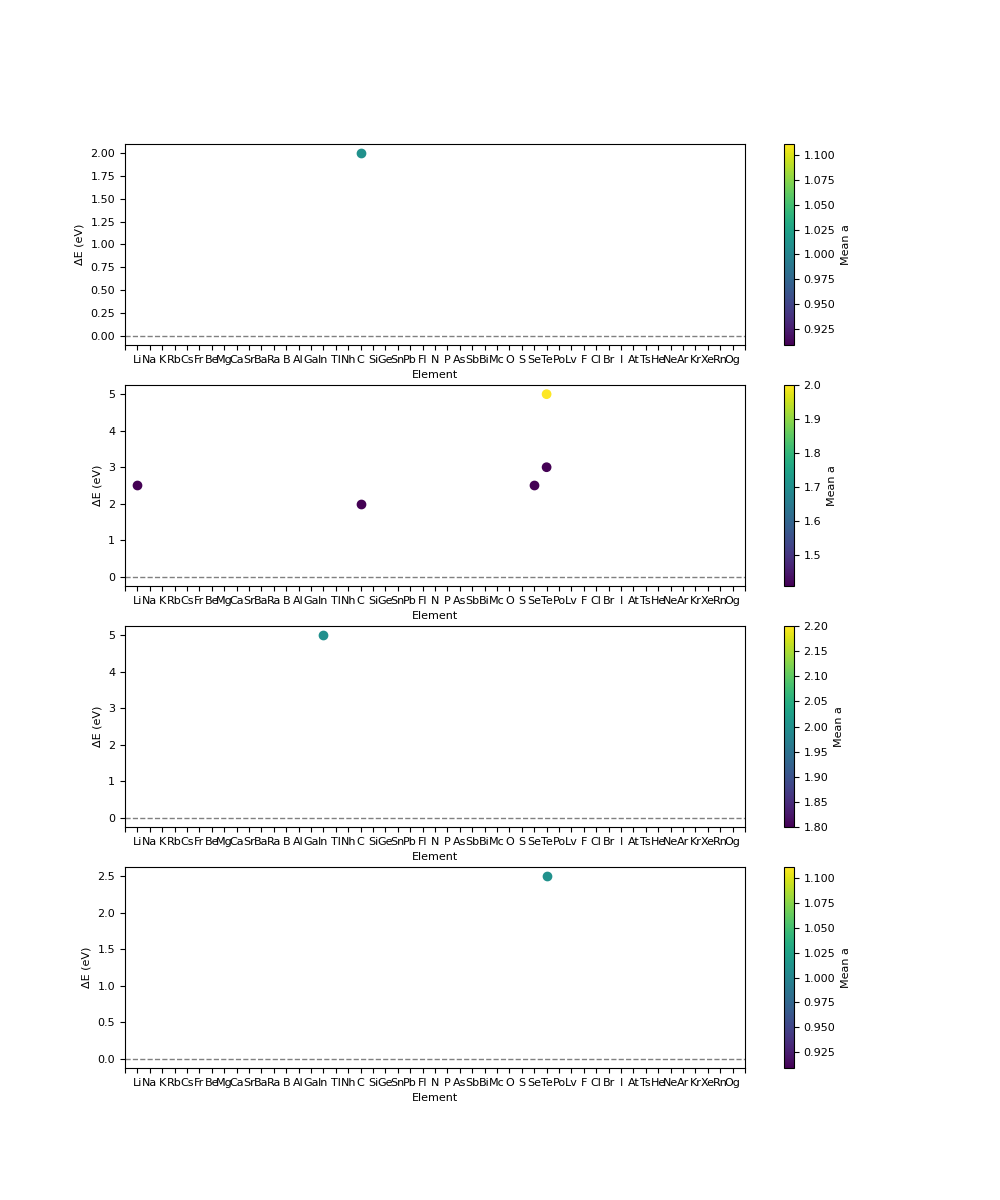
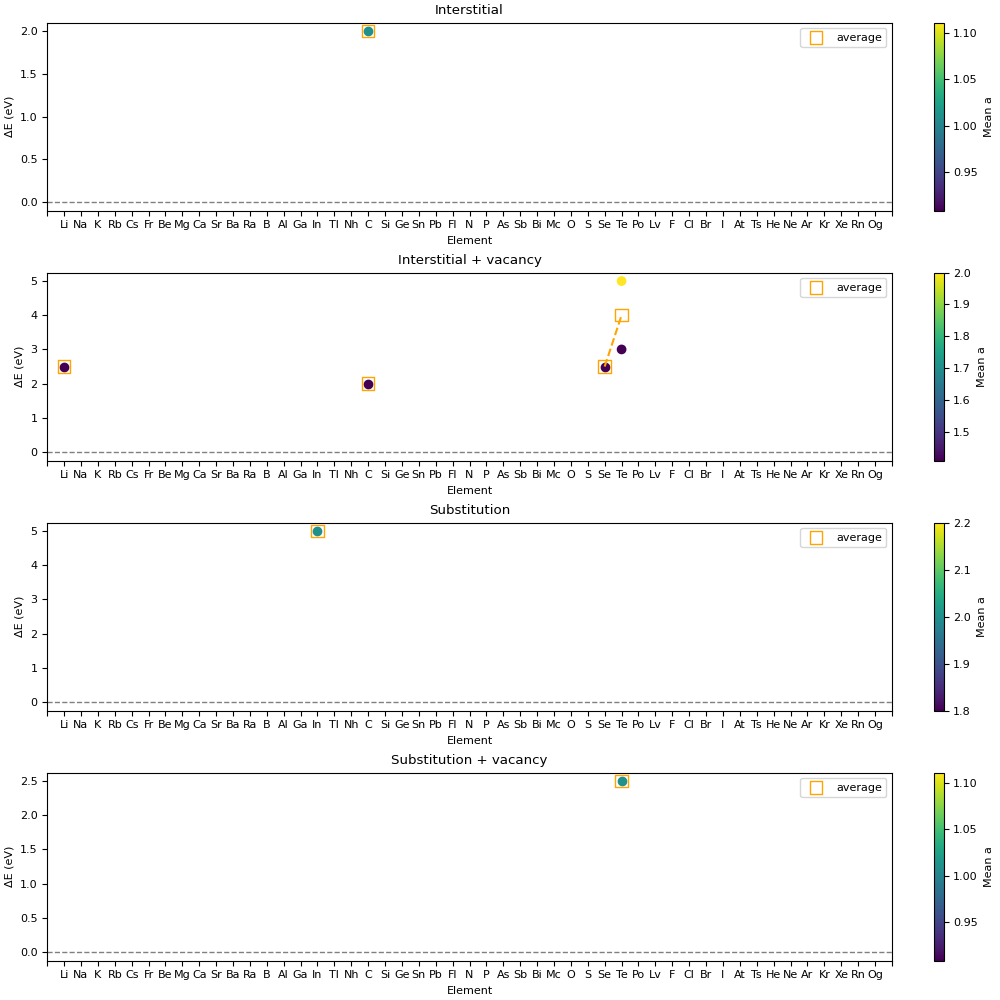
Added loggin, fixed test

diff --git a/src/mdse/visualizeDB/vis_plots.py b/src/mdse/visualizeDB/vis_plots.py
@@ -11,8 +11,12 @@ import seaborn as sns
 logger = logging.getLogger(__name__)
 
 def get_label_name(property):
-    """For a property, like "MSD", get the correct label we can use in plot axis.
-    
+    """For a property, like "MSD", get the correct label we can use in scatter plot.
+
+    args:
+        propery(str): The property, in config format.
+    returns:
+        (str): The property in nice label format.
     """
     labels = {"MSD": "Means square displacement", "temperature": "Temperapure (K)", "Lindeman":"Lindeman",
               "self_diff":"Self diffusion", "energy": "Energy"}
@@ -25,8 +29,8 @@ def get_label_name(property):
     return prop_label
 
 def get_defect_cat(defect_name):
-    """Takes defect name, like "Int_Na" or "Na_C" and extracts what type
-    of defect it is, and what element.
+    """Takes defect name, like "Int_Na" or "Na_C" and extracts what type(s)
+    of defect it is, and what element(s)
     
     args:
         defect_name(str): The defect name
@@ -49,8 +53,14 @@ def single_defect_plot(plot_name, plot_data, sim_data):
     Plots 4 subplots, one for each defect.
     Each subplot should contain all the elements.
     Will get multiple points per element, because of starting positioning differs.
-    4 plots because inter and sub, then these 2 but with vacancy added
+    4 plots because inter and sub, then these 2 but with vacancy added.
+
+    args:
+        plot_name(str): Name of the plot
+        plot_data(dic): Data about the plot. What axis etc.
+        sim_data(dic): Where the data we plot is.
     """
+    logger.debug(f"Start to make single_defect_plot for {plot_name}")
     s_elements = ["Li","Na","K","Rb","Cs","Fr",
                 "Be","Mg","Ca","Sr","Ba","Ra"]
 
@@ -64,7 +74,7 @@ def single_defect_plot(plot_name, plot_data, sim_data):
 
     sorted_data = {"interstitial" : {"element" : [], "energy" : [], "vacancy" : [], "avg_a": []},
      "substitution" : {"element" : [], "energy" : [], "vacancy" : [], "avg_a" : []}}
-
+    logger.debug("Start to loop trough simulations")
     for sim in sim_data:
         #Pick out single defect
         amount = sim.get("DefectInfo")["defect_size"]
@@ -103,15 +113,18 @@ def single_defect_plot(plot_name, plot_data, sim_data):
             defect["avg_a"].append(sim.get("avg_a"))
             defect["vacancy"].append(False)
             continue
+    
+    logger.debug("Done looping over simulations.")
 
-    fig, axs = plt.subplots(nrows = 4, figsize = (10,12), sharex = False)
+    fig, axs = plt.subplots(nrows = 4, figsize = (10,10), sharex = False, constrained_layout = True)
+    #fig.tight_layout()
 
     #Fix axis of all subplots.
 
     avg = plot_data.get("average")
     fix_y = plot_data.get("fix_y")
 
-
+    logger.debug("Fix axis for the 4 subplots")
     for axel in axs:
         axel.set_xlim(0,19)
         axel.set_xlabel("Element")
@@ -134,10 +147,11 @@ def single_defect_plot(plot_name, plot_data, sim_data):
     all_elements = s_elements+p_elements
 
     #----------------Single, interstitial
-    logger.debug("")
+    logger.debug("Start generating first subplot")
     ax1 = axs[0]
     x_pos = range(0,51)
     ax1.set_xticks(x_pos,all_elements)
+    ax1.set_title("Interstitial")
 
     sc1 = None
     first_label = True
@@ -177,13 +191,14 @@ def single_defect_plot(plot_name, plot_data, sim_data):
         fig.colorbar(sc1,ax=ax1, label = "Mean a")
     if avg and avg_x:
         ax1.plot(avg_x,avg_y, linestyle = "--", color="orange")
-    logger.debug("")
+    logger.debug("Done generarating first subplot")
 
     #----------------Interstitial + vacancy
-    logger.debug("")
+    logger.debug("Generate second subplot")
     ax2 = axs[1]
     x_pos = range(0,51)
     ax2.set_xticks(x_pos,all_elements)
+    ax2.set_title("Interstitial + vacancy")
 
     sc2 = None
     first_label = True
@@ -223,13 +238,14 @@ def single_defect_plot(plot_name, plot_data, sim_data):
         fig.colorbar(sc2,ax=ax2, label = "Mean a")
     if avg and avg_x:
         ax2.plot(avg_x,avg_y, linestyle = "--", color="orange")
-    logger.debug("")
+    logger.debug("Done generating second subplot")
 
     #----------------Substitution
-    logger.debug("")
+    logger.debug("Start generating third subplot")
     ax3 = axs[2]
     x_pos = range(0,51)
     ax3.set_xticks(x_pos,all_elements)
+    ax3.set_title("Substitution")
 
     sc3 = None
     first_label = True
@@ -269,13 +285,14 @@ def single_defect_plot(plot_name, plot_data, sim_data):
         fig.colorbar(sc3,ax=ax3, label = "Mean a")
     if avg and avg_x:
         ax3.plot(avg_x,avg_y, linestyle = "--", color="orange")
-    logger.debug("")
+    logger.debug("Done generating third subplot")
 
     #----------------Substitution + vacancy
-    logger.debug("")
+    logger.debug("Start generating forth subplot")
     ax4 = axs[3]
     x_pos = range(0,51)
     ax4.set_xticks(x_pos,all_elements)
+    ax4.set_title("Substitution + vacancy")
 
     sc4 = None
     first_label = True
@@ -315,7 +332,7 @@ def single_defect_plot(plot_name, plot_data, sim_data):
         fig.colorbar(sc4,ax=ax4, label = "Mean a")
     if avg and avg_x:
         ax4.plot(avg_x,avg_y, linestyle = "--", color="orange")
-    logger.debug("")
+    logger.debug("Done generating forth subplot")
 
     logger.debug(f"Sucesfully created all subplots for {plot_name}")
     plt.gcf().savefig(f"{plot_name}.png")
@@ -397,11 +414,11 @@ def heatmap_plot(plot_name,plot_data,sim_data):
         heatmap_sub = df_sub.groupby(['substitution1','substitution2'])['Energy'].mean().unstack()
         heatmap_int = df_int.groupby(['interstitial1','interstitial2'])['Energy'].mean().unstack()
 
-        # Symmetrize so both halves are filled
+        #Symmetrize so both halves are filled
         heatmap_sub = symmetrize(heatmap_sub).reindex(index=all_elements, columns=all_elements)
         heatmap_int = symmetrize(heatmap_int).reindex(index=all_elements, columns=all_elements)
 
-        # Build combined matrix
+        #Combine the two into 1
         n = len(all_elements)
         upper_mask = np.triu(np.ones((n, n), dtype=bool), k=1)
         lower_mask = np.tril(np.ones((n, n), dtype=bool), k=-1)
@@ -410,11 +427,11 @@ def heatmap_plot(plot_name,plot_data,sim_data):
         lower = heatmap_int.where(lower_mask)
         heatmap_data = upper.combine_first(lower)
 
-        # Blank diagonal
+        #Blank diagonal
         np.fill_diagonal(heatmap_data.values, np.nan)
 
 
-        # --- extract both diagonals separately ---
+        #Save both diagonals separately into seperate plots
         diag_sub = pd.Series(
             [heatmap_sub.loc[e, e] if (e in heatmap_sub.index and e in heatmap_sub.columns) else np.nan
             for e in all_elements],
@@ -426,10 +443,10 @@ def heatmap_plot(plot_name,plot_data,sim_data):
             index=all_elements
         )
 
-        # --- plot main heatmap + two diagonal charts ---
+        #Plot
         fig, axes = plt.subplots(1, 3, figsize=(36,16), gridspec_kw={'width_ratios':[4,1,1]})
 
-        # Main heatmap
+
         sns.heatmap(heatmap_data, annot=False, cmap="viridis",
                     cbar_kws={'label': 'Energy'}, ax=axes[0])
         axes[0].plot(np.arange(n)+0.5, np.arange(n)+0.5, color='black', linewidth=2)
@@ -437,13 +454,13 @@ def heatmap_plot(plot_name,plot_data,sim_data):
         axes[0].set_xlabel("Element 2")
         axes[0].set_ylabel("Element 1")
 
-        # Sub–Sub diagonal
+        #Sub-Sub
         diag_sub.plot(kind="bar", ax=axes[1], color="steelblue")
         axes[1].set_title("Diagonal (Sub-Sub)")
         axes[1].set_ylabel("Energy")
         axes[1].tick_params(axis='x', rotation=90)
 
-        # Int–Int diagonal
+        #Int-Int
         diag_int.plot(kind="bar", ax=axes[2], color="darkorange")
         axes[2].set_title("Diagonal (Int-Int)")
         axes[2].set_ylabel("Energy")
@@ -453,7 +470,11 @@ def heatmap_plot(plot_name,plot_data,sim_data):
         plt.savefig(f"{plot_name}.png")
         plt.close()
 
+        logger.debug(f"Created combined heatmap for {plot_name}")
+
     else:
+        #If inter-sub
+
         heatmap_data = dataframe.groupby(["interstitial","substitution"])["Energy"].mean().unstack()
         x_label = "interstitial"
         y_label = "substitution"
@@ -467,6 +488,8 @@ def heatmap_plot(plot_name,plot_data,sim_data):
 
         plt.gcf().savefig(f"{plot_name}.png")
         plt.close()
+
+        logger.debug(f"Created inter-sub heatmap for {plot_name}")
 
 
 def scatter_plot(plot_name, plot_data,sim_data):
@@ -800,10 +823,3 @@ def plot_avg(axial, x_pos, y_values):
     axial.scatter([x_pos], average, color = "orange", 
                 marker = "s", label="average", facecolors = "none", s = 80)
     return average
-
-if __name__ == "__main__":
-    parse_description("0_Int_Se_v:p_w:li_(1/4, 1/4, 1/4)_1_Int_Se_v:e_w:li_(9/16, 9/16, 9/16)")
-    parse_description("0_Vac_C(0)_0")
-    parse_description("0_Int_Si_v:p_w:po_(0, 0, 0)")
-    parse_description("0_Vac_C(0)_0_1_Int_O_v:p_w:li_(0, 5/8, -5/8)")
-    parse_description("0_Al_C(0)_0")

diff --git a/tests/test_visualizedb.py b/tests/test_visualizedb.py
@@ -31,7 +31,10 @@ def mock_config_data():
             "plots" : {"plot_1" : {"type" : "doping", "average" : True, "fix_y" : True},
                        "plot_2" : {"type" : "scatter", "x" : "temperature", "y" : "MSD", "z" : "Lindeman"},
                         "plot_3" : {"type" : "ALL_PLOT", "x" : "temperature", "y" : "MSD", "z" : "Lindeman"},
-                         "plot_4" : {"type" : "scatter", "x" : "speed_per_kelvin", "y" : "MSD", "z" : "Lindeman"} }}
+                        "plot_4" : {"type" : "scatter", "x" : "speed_per_kelvin", "y" : "MSD", "z" : "Lindeman"},
+                        "plot_5" : {"type" : "heatmap", "x" : "substitution", "y" : "interstitial"},
+                        "plot_6" : {"type" : "single"}
+                        }}
     
     return data
 
@@ -41,15 +44,29 @@ def mock_sim_data():
     """Create mock .json data"""
     data = [
         {"doping": "H",  "avg_a": 1.01, "formation_energy": 1.01,
-         "temperature": 300, "MSD": 0.01, "Lindeman": 0.05},
+         "temperature": 300, "MSD": 0.01, "Lindeman": 0.05,
+         "DefectInfo": {"defect_type": "Int_C:Int_Rb", "defect_size": 2, 
+                "vacancy": 0, "substitutional": 0, "interstitial": 1}},
+
         {"doping": "H",  "avg_a": 1.05, "formation_energy": 1.03,
-         "temperature": 310, "MSD": 0.02, "Lindeman": 0.06},
+         "temperature": 310, "MSD": 0.02, "Lindeman": 0.06,
+         "DefectInfo": {"defect_type": "Int_C:Int_Rb", "defect_size": 2, 
+                "vacancy": 0, "substitutional": 0, "interstitial": 1}},
+
         {"doping": "He", "avg_a": 0.99, "formation_energy": 1.80,
-         "temperature": 300, "MSD": 0.015, "Lindeman": 0.055},
+         "temperature": 300, "MSD": 0.015, "Lindeman": 0.055,
+         "DefectInfo": {"defect_type": "Int_C:Int_Rb", "defect_size": 2, 
+                "vacancy": 0, "substitutional": 0, "interstitial": 1}},
+
         {"doping": "Li", "avg_a": 0.92, "formation_energy": 1.11,
-         "temperature": 305, "MSD": 0.012, "Lindeman": 0.052},
+         "temperature": 305, "MSD": 0.012, "Lindeman": 0.052,
+         "DefectInfo": {"defect_type": "Int_C:Rb_C", "defect_size": 2, 
+                "vacancy": 0, "substitutional": 1, "interstitial": 1}},
+
         {"doping": "Cu", "avg_a": 1.02, "formation_energy": 1.02,
-         "temperature": 300, "MSD": 0.02, "Lindeman": 0.05},
+         "temperature": 300, "MSD": 0.02, "Lindeman": 0.05,
+         "DefectInfo": {"defect_type": "Int_C:Int_Rb", "defect_size": 2, 
+                "vacancy": 0, "substitutional": 0, "interstitial": 1}} 
     ]
 
     return data
@@ -58,7 +75,7 @@ def mock_sim_data():
 def test_run_visualize(monkeypatch, mock_config_data, mock_sim_data):
     """Test that above configurations/structure is valid.
     And generates plots.
-    Data had 4 plots, 2 which are invalid format. Check so only 2 gets created.
+    Data had 6 plots, 2 which are invalid format. Check so only 4 gets created.
     """
 
     #Patch read_yaml and read_data in run_vis to use above data.
@@ -74,7 +91,7 @@ def test_run_visualize(monkeypatch, mock_config_data, mock_sim_data):
 
     run_visualize_db("dummy")
 
-    assert(dummy_savefig.call_count == 2)
+    assert(dummy_savefig.call_count == 4)
 
     saved_files = [call.args[0] for call in dummy_savefig.call_args_list]
 
@@ -82,3 +99,5 @@ def test_run_visualize(monkeypatch, mock_config_data, mock_sim_data):
     assert "plot_2.png" in saved_files
     assert "plot_3.png" not in saved_files
     assert "plot_4.png" not in saved_files
+    assert "plot_5.png" in saved_files
+    assert "plot_6.png" in saved_files
